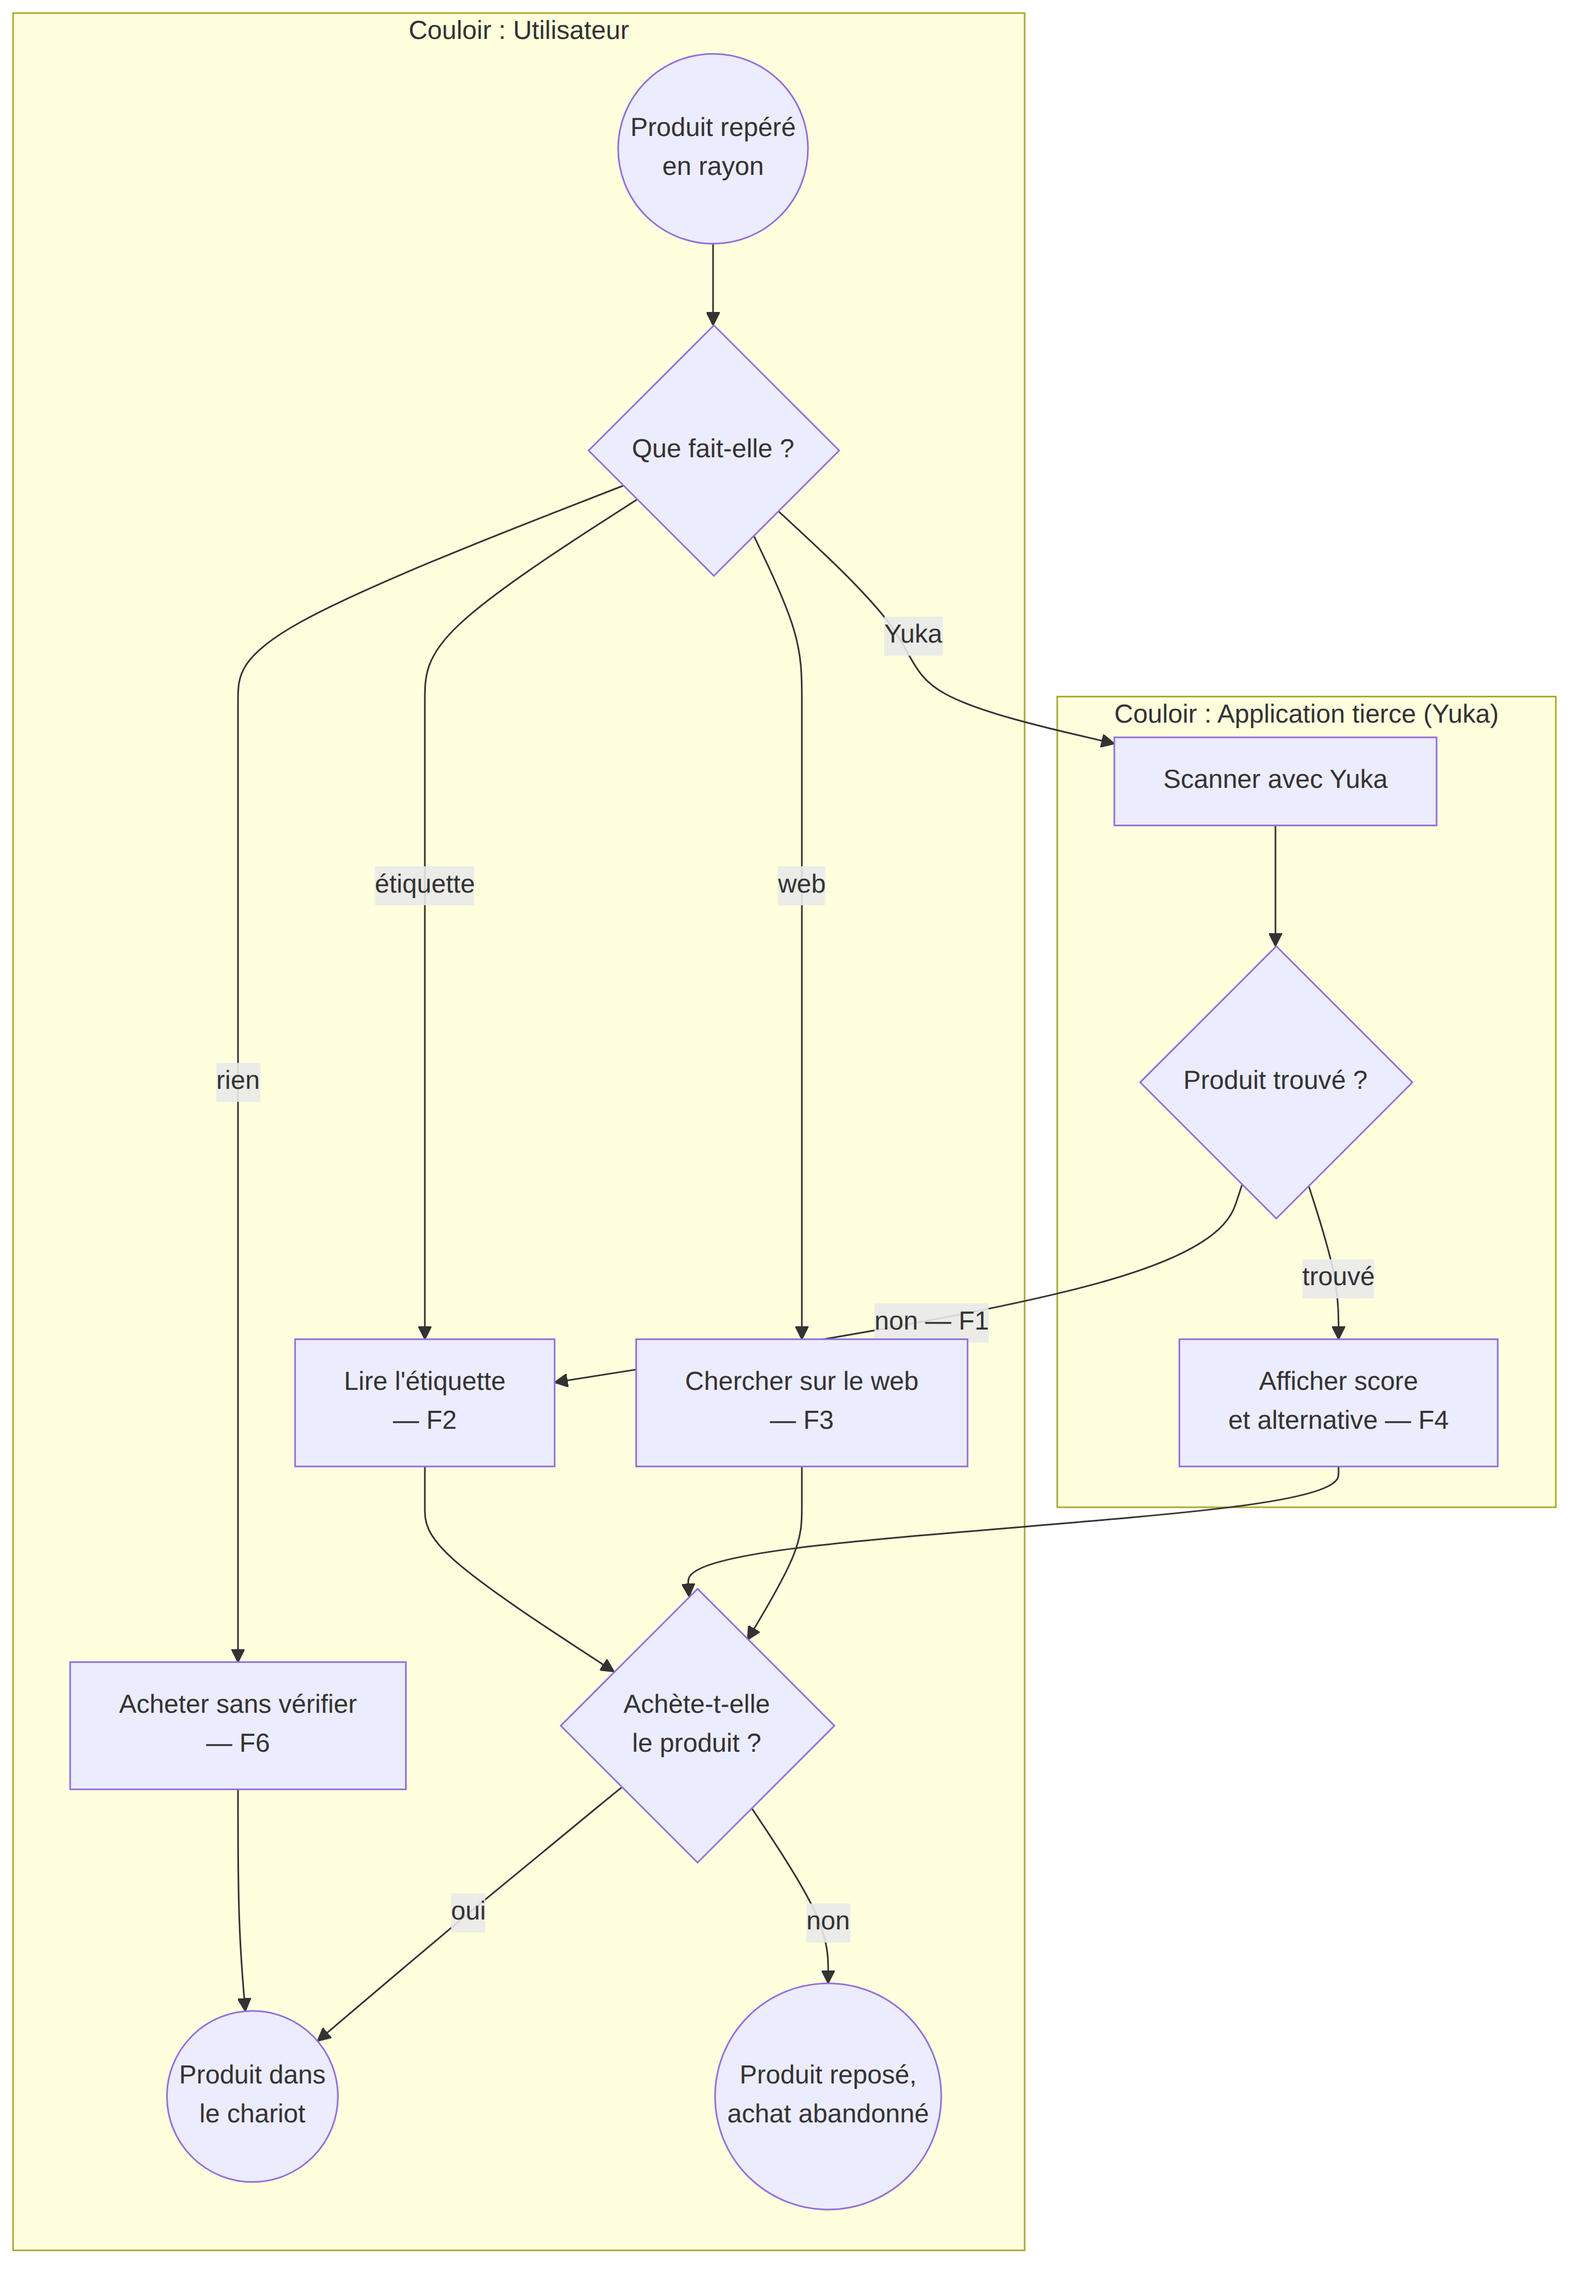
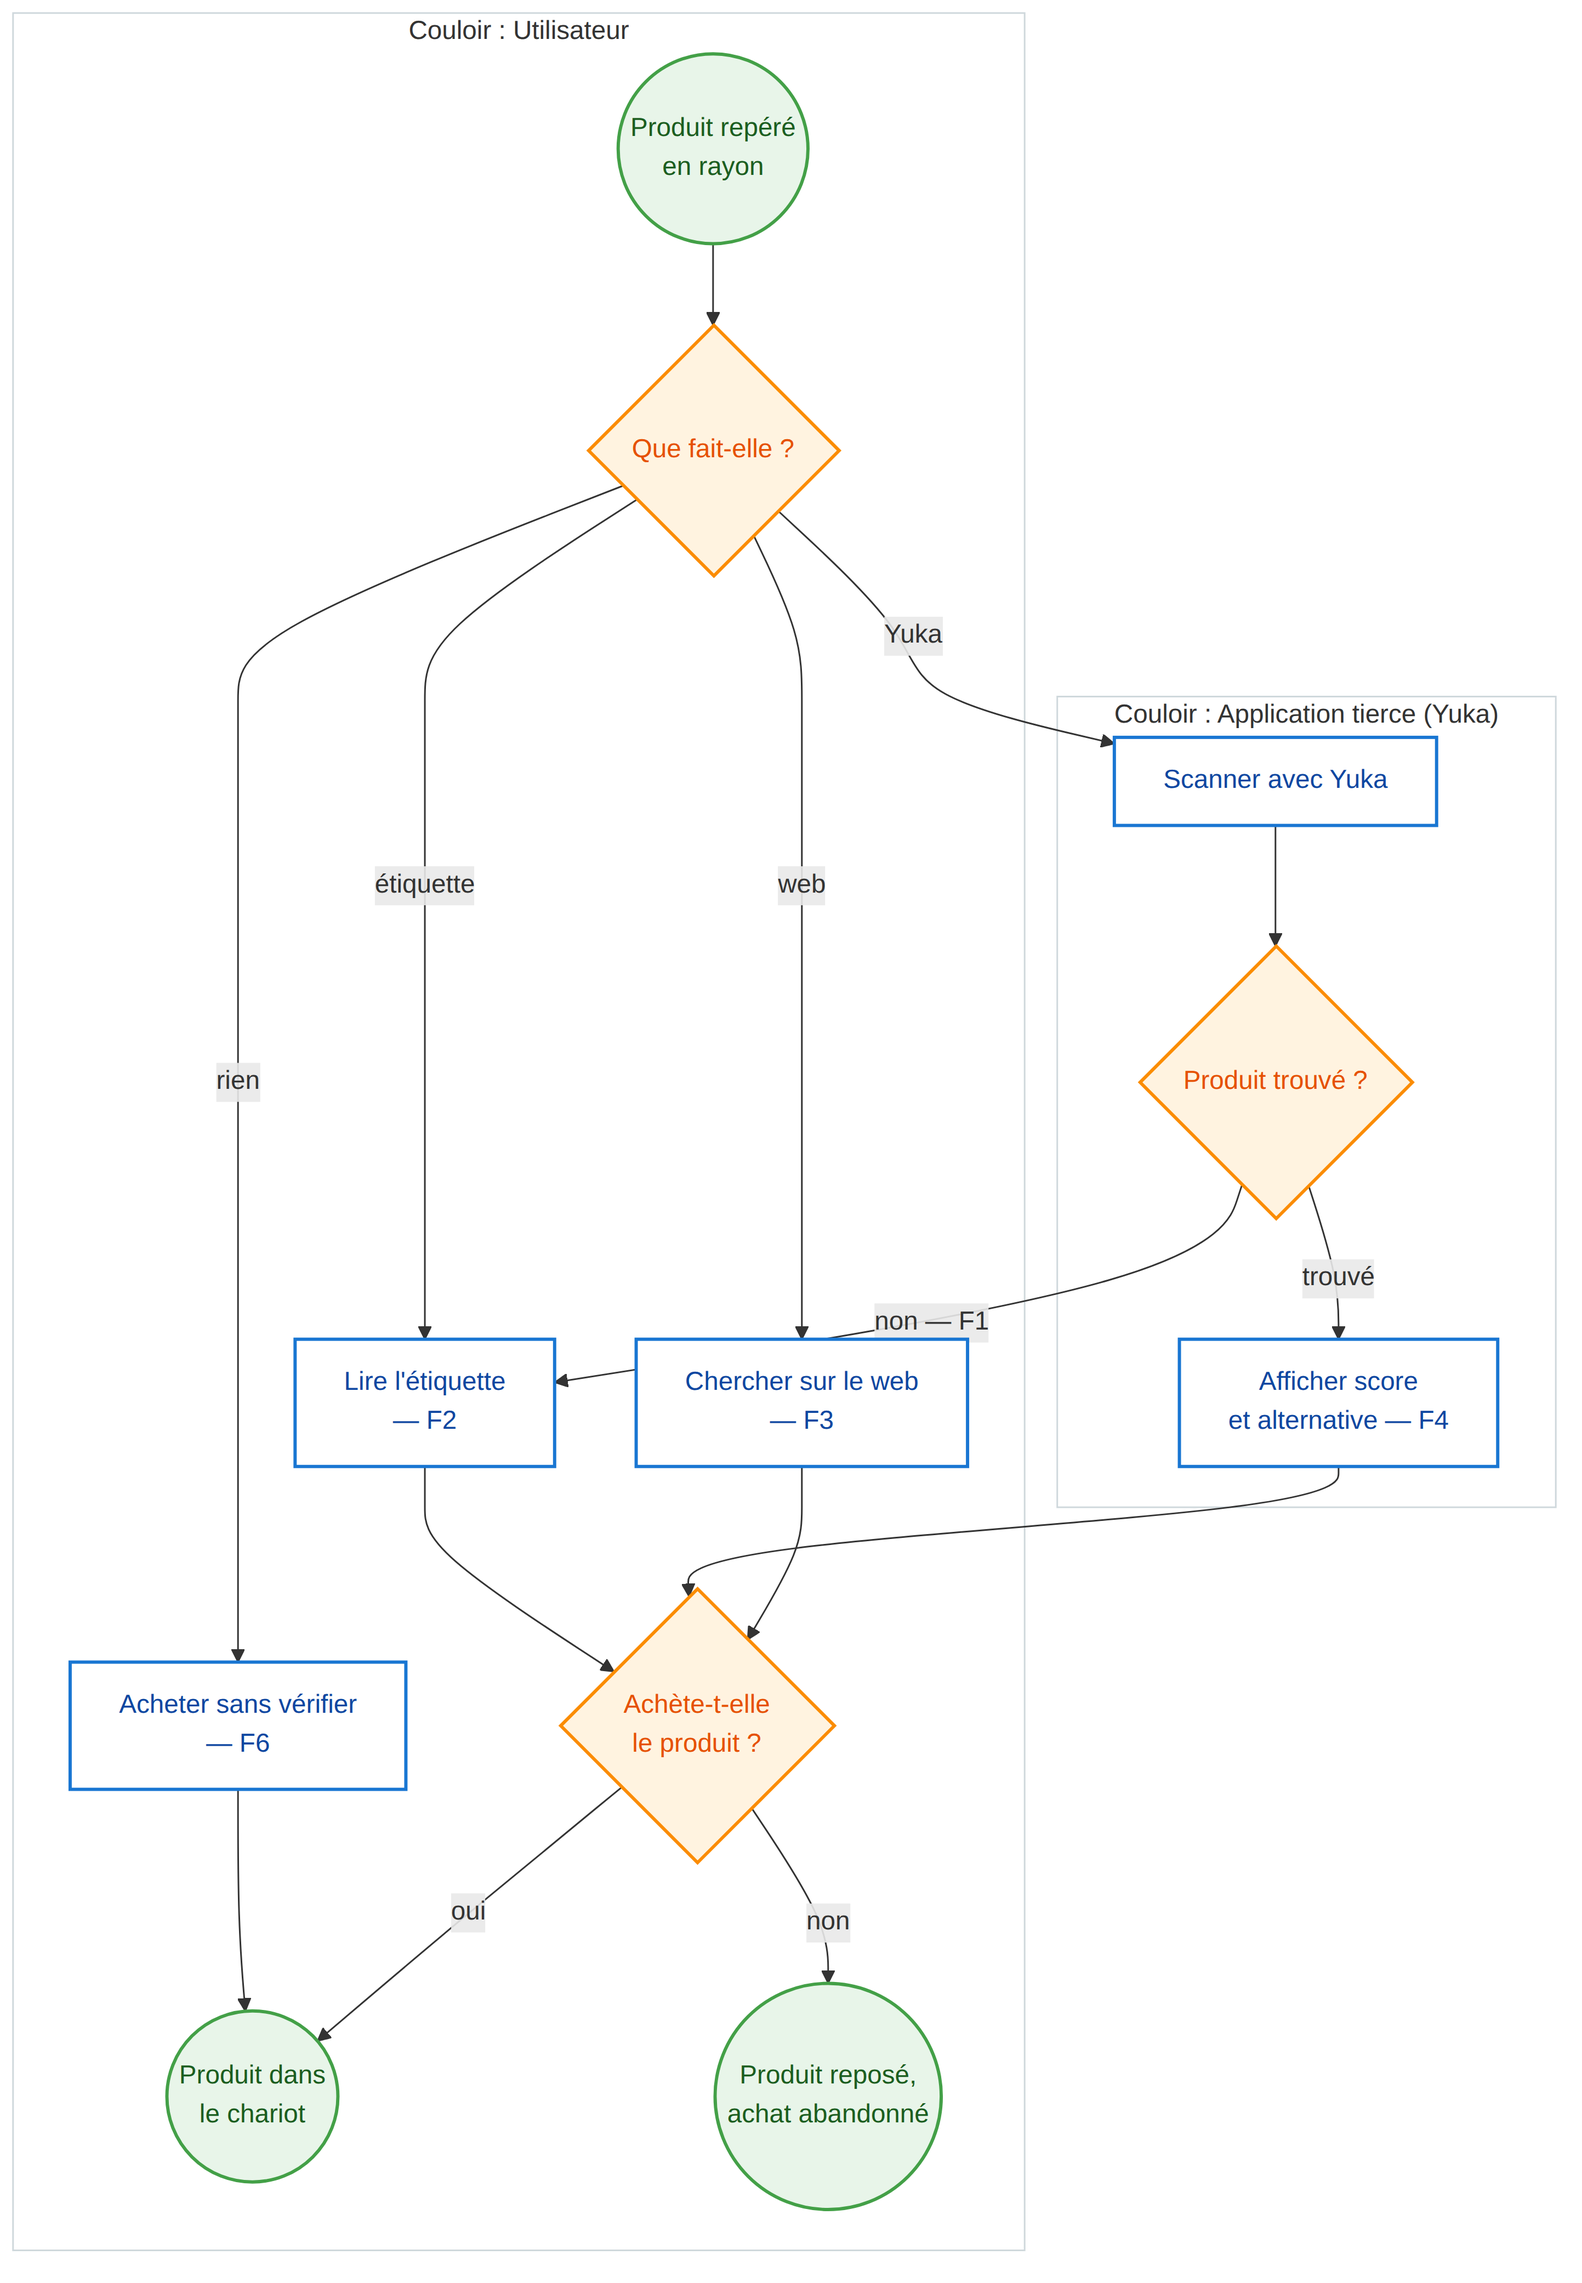
ajout de couleurs sur les diagrammes

diff --git a/docs/cadrage/processus.md b/docs/cadrage/processus.md
@@ -38,6 +38,15 @@ flowchart TD
     Decide -- "rien" --> NoCheck --> EndBuy
     FinalGw -- "oui" --> EndBuy
     FinalGw -- "non" --> EndNoBuy
+
+    classDef evt fill:#e8f5e9,stroke:#43a047,stroke-width:2px,color:#1b5e20
+    classDef act fill:#ffffff,stroke:#1976d2,stroke-width:2px,color:#0d47a1
+    classDef gw fill:#fff3e0,stroke:#fb8c00,stroke-width:2px,color:#e65100
+    class Start,EndBuy,EndNoBuy evt
+    class Decide,FoundGw,FinalGw gw
+    class ReadLabel,WebSearch,NoCheck,ScanYuka,ShowScore act
+    style LaneUser fill:#ffffff,stroke:#cfd8dc,stroke-width:1px
+    style LaneYuka fill:#ffffff,stroke:#cfd8dc,stroke-width:1px
 ```
 
 *F5 (Thomas, achats professionnels) n'apparaît pas comme une case du schéma : c'est cette boucle entière qui est rejouée à l'identique, produit par produit, sans vue d'ensemble sur un rayon — une friction sur la répétition, pas sur une étape précise.*
@@ -99,6 +108,21 @@ flowchart TD
     ChooseGw -- "garder" --> EndKeep
     ChooseGw -- "alternative" --> LocateAlt --> EndAlt
     ChooseGw -- "ne pas acheter" --> EndNoBuy
+
+    classDef evt fill:#e8f5e9,stroke:#43a047,stroke-width:2px,color:#1b5e20
+    classDef act fill:#ffffff,stroke:#1976d2,stroke-width:2px,color:#0d47a1
+    classDef gw fill:#fff3e0,stroke:#fb8c00,stroke-width:2px,color:#e65100
+    classDef ia fill:#e8f5e9,stroke:#43a047,stroke-width:2px,color:#1b5e20
+    classDef data fill:#f5f5f5,stroke:#9e9e9e,stroke-width:1.5px,color:#424242
+    class Start,EndKeep,EndAlt,EndNoBuy evt
+    class ChooseGw,FoundGw gw
+    class Scan,Search,AskPhoto,Display,LocateAlt,ReadResult act
+    class Classify,Predict,FindSubs,Generate ia
+    class Data data
+    style LaneUser fill:#ffffff,stroke:#cfd8dc,stroke-width:1px
+    style LaneApp fill:#ffffff,stroke:#cfd8dc,stroke-width:1px
+    style LaneIA fill:#ffffff,stroke:#cfd8dc,stroke-width:1px
+    style LaneData fill:#ffffff,stroke:#cfd8dc,stroke-width:1px
 ```
 
 Le to-be ferme F1, F2, F3 (contrôle fait désormais en rayon) et F6 (vérification enfin assez rapide) ; F4 est traité en injectant le profil (budget, diabète) dans la recherche de substituts. Ne pas acheter devient une issue nommée : un produit reposé faute de bonne alternative est un succès du parcours, pas un échec — une donnée à mesurer au même titre qu'un achat. F5 (achats professionnels de Thomas, produit par produit) n'est pas résolu : c'est une limite assumée de ce périmètre.
